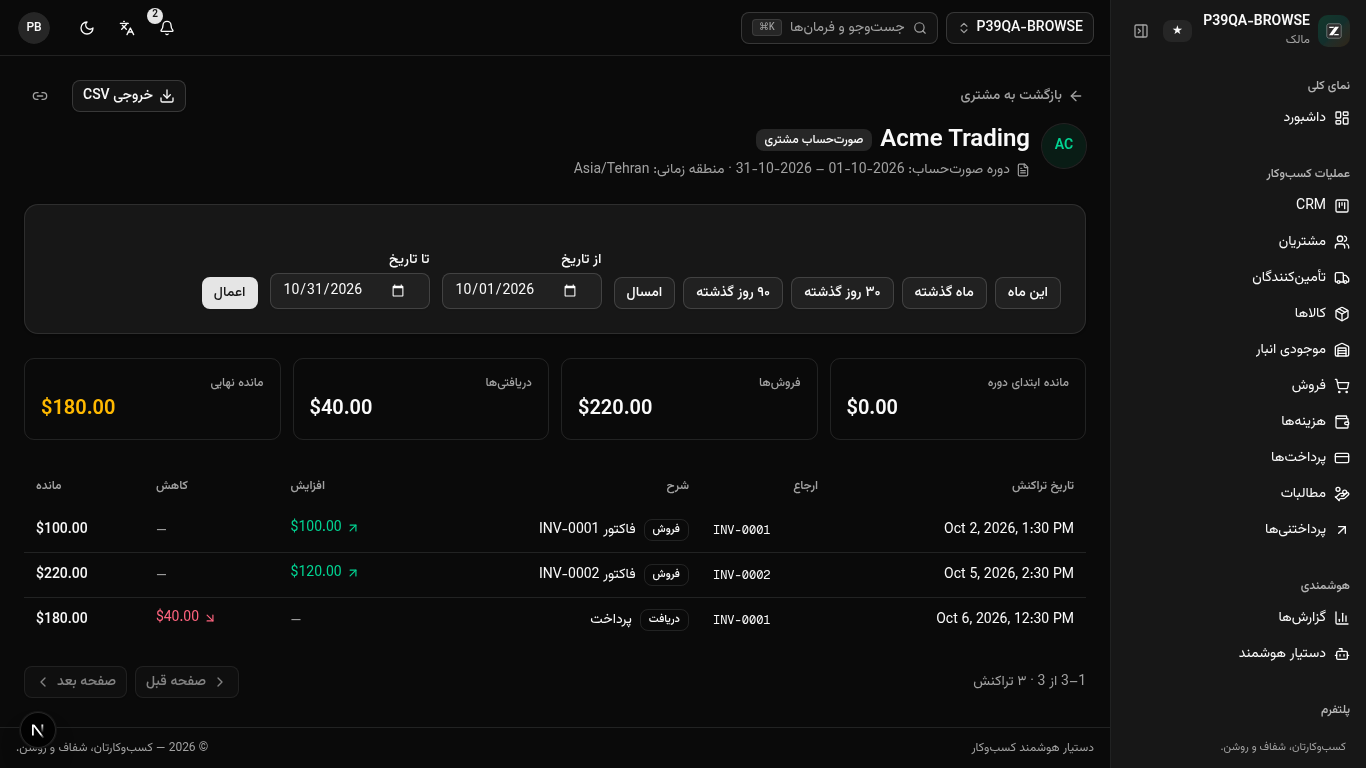
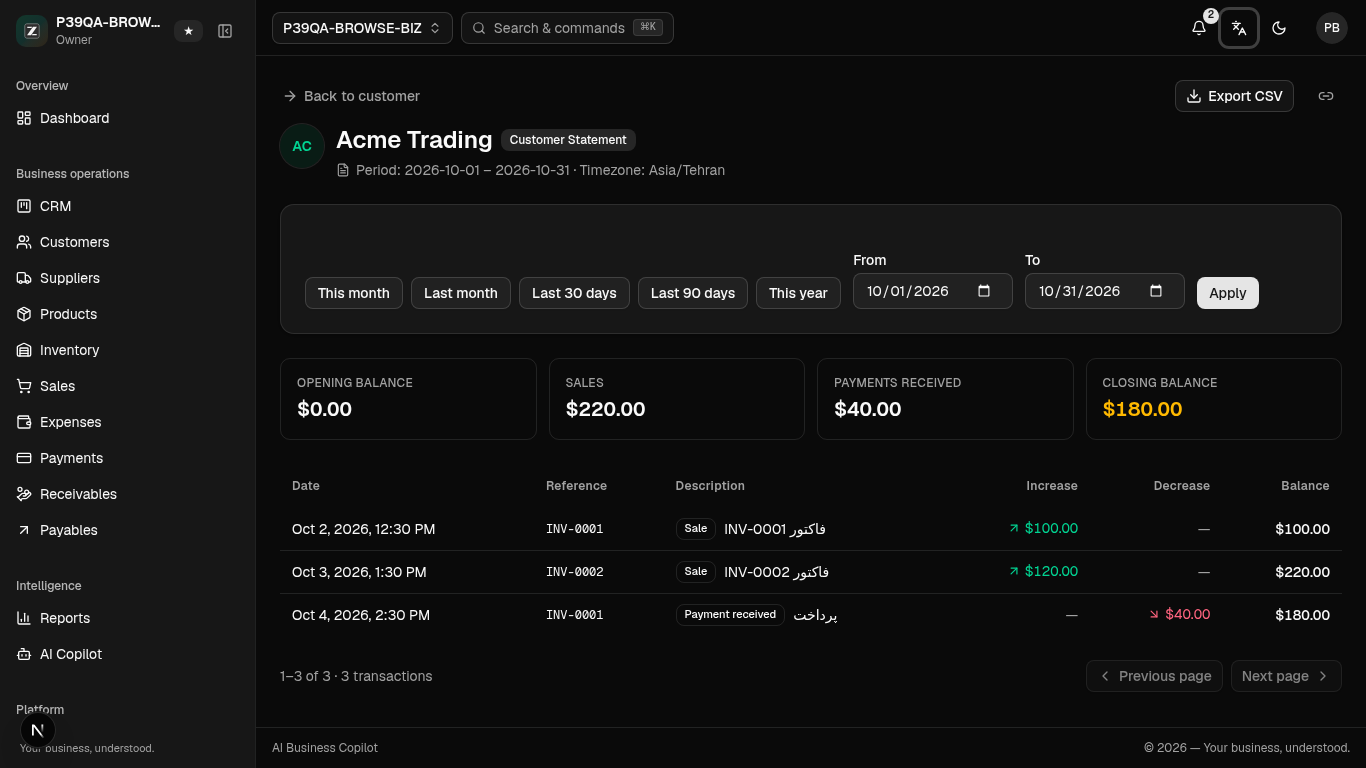
e672fa56-5603-4f07-a2bc-178bd8d7c20c

diff --git a/scripts/prompt39-unit.ts b/scripts/prompt39-unit.ts
@@ -684,6 +684,21 @@ console.log("[46 DTO contract]");
 }
 
 // ===========================================================================
+// [47] §157/§159 — statement query-key cache laws (locale in key)
+// ===========================================================================
+{
+  section("[47] statement query-key cache laws (§157/§159)");
+  const mod = await import("../src/modules/statements/statements-api");
+  const ck = mod.statementKeys.customer("biz1", "cus1", "2026-10-01", "2026-10-31", null, "en");
+  const ckFa = mod.statementKeys.customer("biz1", "cus1", "2026-10-01", "2026-10-31", null, "fa");
+  const sk = mod.statementKeys.supplier("biz1", "sup1", "2026-10-01", "2026-10-31", "cur1", "en");
+  ok("47a. customer key carries businessId+partyId+from+to+cursor (§157)", ck.includes("biz1") && ck.includes("cus1") && ck.includes("2026-10-01") && ck.includes("2026-10-31") && ck.includes(null));
+  ok("47b. locale is part of the key (language switch cannot serve stale rows)", ck[ck.length - 1] === "en" && ckFa[ckFa.length - 1] === "fa" && JSON.stringify(ck) !== JSON.stringify(ckFa));
+  ok("47c. statement type token in key (customer ≠ supplier, §159)", ck[1] === "customer" && sk[1] === "supplier" && JSON.stringify(ck) !== JSON.stringify(sk));
+  ok("47d. keysFor routes type + locale through single source (§133)", JSON.stringify(mod.statementKeysFor("supplier", "biz1", "sup1", "2026-10-01", "2026-10-31", "cur1", "fa")) === JSON.stringify(mod.statementKeys.supplier("biz1", "sup1", "2026-10-01", "2026-10-31", "cur1", "fa")));
+}
+
+// ===========================================================================
 console.log(`PROMPT 39 UNIT: ${passed}/${passed + failed} ${failed === 0 ? "PASS" : "FAIL"}`);
 if (failed > 0) {
   console.error("FAILURES:");

diff --git a/src/modules/statements/statements-api.ts b/src/modules/statements/statements-api.ts
@@ -5,6 +5,8 @@
  *
  * CACHE LAWS:
  *   §157 — every key carries businessId + partyId + from + to + cursor;
+ *          locale is ALSO part of the key: descriptions are server-localized,
+ *          so a language switch must never serve stale old-locale rows;
  *   §159 — the statement TYPE is part of the key: a Customer A statement is
  *          never reused for Supplier B;
  *   §158 — business switches invalidate everything (header-level), and a
@@ -29,14 +31,16 @@ export const statementKeys = {
     from: string,
     to: string,
     cursor: string | null,
-  ) => ["statements", "customer", businessId, partyId, from, to, cursor ?? null] as const,
+    locale: string,
+  ) => ["statements", "customer", businessId, partyId, from, to, cursor ?? null, locale] as const,
   supplier: (
     businessId: string,
     partyId: string,
     from: string,
     to: string,
     cursor: string | null,
-  ) => ["statements", "supplier", businessId, partyId, from, to, cursor ?? null] as const,
+    locale: string,
+  ) => ["statements", "supplier", businessId, partyId, from, to, cursor ?? null, locale] as const,
 };
 
 export function statementKeysFor(
@@ -46,10 +50,11 @@ export function statementKeysFor(
   from: string,
   to: string,
   cursor: string | null,
+  locale: string,
 ) {
   return statementType === "customer"
-    ? statementKeys.customer(businessId, partyId, from, to, cursor)
-    : statementKeys.supplier(businessId, partyId, from, to, cursor);
+    ? statementKeys.customer(businessId, partyId, from, to, cursor, locale)
+    : statementKeys.supplier(businessId, partyId, from, to, cursor, locale);
 }
 
 export function statementApiPath(statementType: StatementTypeToken, partyId: string): string {

diff --git a/src/modules/statements/statements-view.tsx b/src/modules/statements/statements-view.tsx
@@ -88,7 +88,7 @@ export function StatementsView({
 
   // ---- query (§157/§159 — key carries type + business + party + range) ---
   const { data, isLoading, isError, error, refetch, isFetching } = useQuery<StatementPage>({
-    queryKey: statementKeysFor(statementType, business.id, partyId, range.from, range.to, cursor),
+    queryKey: statementKeysFor(statementType, business.id, partyId, range.from, range.to, cursor, locale),
     queryFn: () => fetchStatementPage(statementType, partyId, { from: range.from, to: range.to, cursor, locale }),
     staleTime: 15_000,
     retry: (failureCount, err) =>
